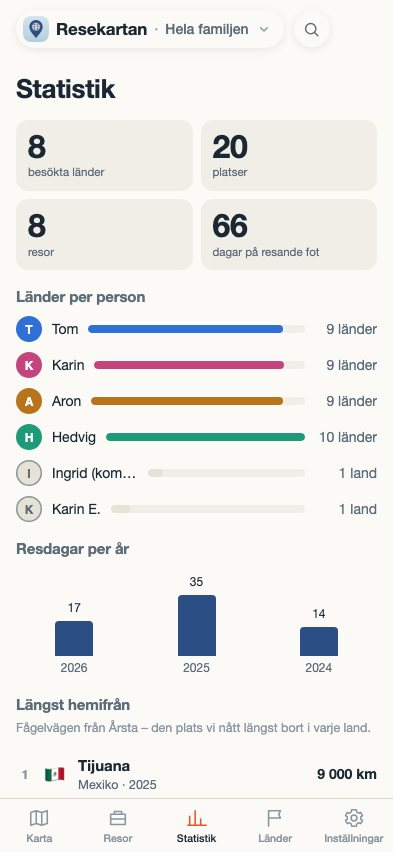
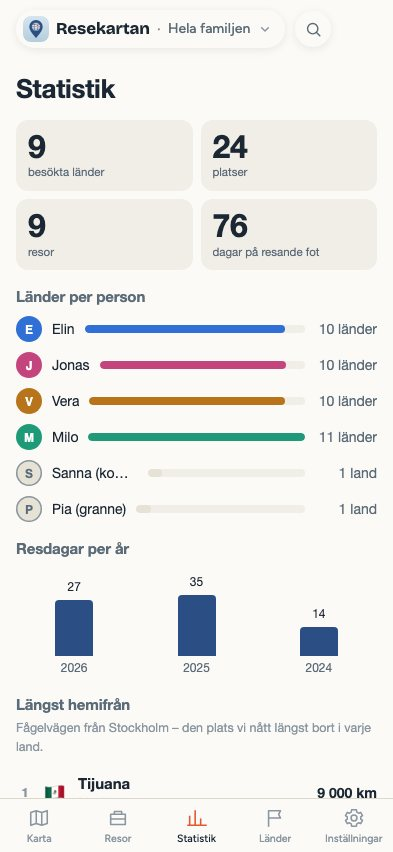
Exempeldatat anonymiserat, och en Lofotenresa till
Sidan /om är publik och repot är publikt, så exempeldatat ska inte bära
familjens namn. Elin, Jonas, Vera och Milo i stället, med distinkta
initialer så avatarbrickorna går att skilja åt, och gästerna omdöpta.
Hemorten är Stockholm i stället för en adress.

Lofoten tillagd så det finns en resa till bland de senaste när bilderna
kommer – Svolvær, Henningsvär, Reine och Å.

Claude-Session: https://claude.ai/code/session_01Wu3cv2xDEr3HrUYMerHgDB

diff --git a/data/seed.js b/data/seed.js
@@ -8,20 +8,20 @@ window.SEED = {
   /* core: true = familjen, förkryssad på varje ny resa.
      Övriga är resesällskap som kryssas i när de var med. */
   people: [
-    { id: 'tom',    name: 'Tom',    core: true },
-    { id: 'karin',  name: 'Karin',  core: true },
-    { id: 'aron',   name: 'Aron',   core: true },
-    { id: 'hedvig', name: 'Hedvig', core: true },
-    { id: 'ingrid',  name: 'Ingrid (kompis)' },
-    { id: 'karine',  name: 'Karin E.' },
-    { id: 'mormor',  name: 'Mormor Ingrid' },
-    { id: 'morfar',  name: 'Morfar Arne' },
-    { id: 'erik',    name: 'Morbror Erik' }
+    { id: 'elin',    name: 'Elin',   core: true },
+    { id: 'jonas',  name: 'Jonas',  core: true },
+    { id: 'vera',   name: 'Vera',   core: true },
+    { id: 'milo', name: 'Milo',   core: true },
+    { id: 'sanna',  name: 'Sanna (kompis)' },
+    { id: 'pia',  name: 'Pia (granne)' },
+    { id: 'mormor',  name: 'Mormor Britt' },
+    { id: 'morfar',  name: 'Morfar Sture' },
+    { id: 'leif',    name: 'Farbror Leif' }
   ],
-  home: { iso: '752', place: { name: 'Årsta', lat: 59.30, lon: 18.05 } },
+  home: { iso: '752', place: { name: 'Stockholm', lat: 59.33, lon: 18.07 } },
   trips: [
     { id: 'it26', title: 'Italien', start: '2026-08-01', end: '2026-08-09',
-      who: ['tom','karin','aron','hedvig'],
+      who: ['elin','jonas','vera','milo'],
       note: 'En vecka med historia, bad och italiensk mat. Två nätter i Rom med Colosseum och Fontana di Trevi, sedan Formia med strandliv och dagstur till Ponza.',
       stops: [{ iso: '380', places: [
         { name: 'Rom', lat: 41.90, lon: 12.50, what: 'Colosseum och Fontana di Trevi' },
@@ -31,13 +31,13 @@ window.SEED = {
         { name: 'Ponza', lat: 40.90, lon: 12.96, what: 'Dagstur med båt' }]}]},
 
     { id: 'hh26', title: 'Hamburg', start: '2026-05-01', end: '2026-05-03',
-      who: ['tom','aron'],
+      who: ['elin','vera'],
       note: 'Pappa-och-son-helg: Miniatur Wunderland, hamnrundtur och Elbphilharmonie.',
       stops: [{ iso: '276', places: [
         { name: 'Hamburg', lat: 53.55, lon: 9.99, what: 'Miniatur Wunderland och hamnrundtur' }]}]},
 
     { id: 'hk25', title: 'Hongkong', start: '2025-10-26', end: '2025-11-03',
-      who: ['tom','karin','aron','hedvig'],
+      who: ['elin','jonas','vera','milo'],
       note: 'Höstlov i Hongkong. Victoria Peak, Star Ferry och dim sum varje dag. En dag med färja till Macau.',
       stops: [
         { iso: '344', places: [
@@ -46,7 +46,7 @@ window.SEED = {
           { name: 'Macau', lat: 22.20, lon: 113.54, what: 'Färja över på dagen, portugisiska gamla stan' }]}]},
 
     { id: 'us25', title: 'Kalifornien', start: '2025-06-12', end: '2025-06-27',
-      who: ['tom','karin','aron','hedvig'],
+      who: ['elin','jonas','vera','milo'],
       note: 'Roadtrip längs kusten: San Francisco, Highway 1, Los Angeles och San Diego. En natt över gränsen i Tijuana.',
       stops: [
         { iso: '840', places: [
@@ -57,13 +57,13 @@ window.SEED = {
           { name: 'Tijuana', lat: 32.51, lon: -117.04, what: 'En natt över gränsen, tacos på gatan' }]}]},
 
     { id: 'lon25', title: 'London', start: '2025-02-14', end: '2025-02-17',
-      who: ['karin','hedvig'],
+      who: ['jonas','milo'],
       note: 'Sportlovshelg med musikal, Harry Potter-studion och Camden.',
       stops: [{ iso: '826', places: [
         { name: 'London', lat: 51.51, lon: -0.13, what: 'Musikal, Harry Potter-studion och Camden' }]}]},
 
     { id: 'es24', title: 'Andalusien', start: '2024-10-12', end: '2024-10-19',
-      who: ['tom','karin','aron','hedvig'],
+      who: ['elin','jonas','vera','milo'],
       note: 'Höstlov i Málaga med dagsturer till Sevilla och Gibraltar – aporna på klippan var höjdpunkten.',
       stops: [
         { iso: '724', places: [
@@ -73,26 +73,35 @@ window.SEED = {
           { name: 'Gibraltar', lat: 36.14, lon: -5.35, what: 'Linbanan upp till aporna på klippan' }]}]},
 
     { id: 'dk24', title: 'Köpenhamn', start: '2024-05-03', end: '2024-05-05',
-      who: ['tom','karin','aron','hedvig'],
+      who: ['elin','jonas','vera','milo'],
       note: 'Tivoli, Nyhavn och cykel längs kanalerna.',
       stops: [{ iso: '208', places: [
         { name: 'Köpenhamn', lat: 55.68, lon: 12.57, what: 'Tivoli, Nyhavn och cykel längs kanalerna' }]}]},
 
     { id: 'ro26', title: 'Rumänien', start: '2026-10-24', end: '2026-10-31',
-      who: ['tom','karin','aron','hedvig'], planned: true,
+      who: ['elin','jonas','vera','milo'], planned: true,
       note: 'Höstlovet 2026. Bukarest och Transsylvanien är påtänkta.',
       stops: [{ iso: '642', places: [
         { name: 'Bukarest', lat: 44.43, lon: 26.10, what: 'Bukarest och Transsylvanien är påtänkta' }]}]},
 
+    { id: 'no26lof', title: 'Lofoten', start: '2026-07-03', end: '2026-07-12',
+      who: ['elin','jonas','vera','milo'],
+      note: 'Midnattssol, branta toppar rakt upp ur havet och rorbuer att bo i. Vi körde hela vägen ut till Å och badade i vatten som var alldeles för kallt.',
+      stops: [{ iso: '578', places: [
+        { name: 'Svolvær', lat: 68.23, lon: 14.57, what: 'Hamnen och Svolværgeita på håll' },
+        { name: 'Henningsvær', lat: 68.15, lon: 14.20, what: 'Fotbollsplanen mellan klipporna' },
+        { name: 'Reine', lat: 67.93, lon: 13.09, what: 'Utsikten från Reinebringen' },
+        { name: 'Å', lat: 67.88, lon: 12.98, what: 'Vägens slut och torrfiskmuseet' }]}]},
+
     /* Resor i Sverige – syns när man trycker på hemlandet */
     { id: 'se26are', title: 'Åre', start: '2026-02-21', end: '2026-02-28',
-      who: ['tom','karin','aron','hedvig'],
-      note: 'Sportlov i fjällen. Hedvig åkte sin första svarta backe och Aron lärde sig snowboard.',
+      who: ['elin','jonas','vera','milo'],
+      note: 'Sportlov i fjällen. Milo åkte sin första svarta backe och Vera lärde sig snowboard.',
       stops: [{ iso: '752', places: [
         { name: 'Åre', lat: 63.40, lon: 13.08, what: 'Skidor hela veckan och första svarta backen' }]}]},
 
     { id: 'se25got', title: 'Gotland', start: '2025-07-05', end: '2025-07-14',
-      who: ['tom','karin','aron','hedvig'],
+      who: ['elin','jonas','vera','milo'],
       note: 'Sommarvecka på Gotland med stugan utanför Visby, raukar på Fårö och bad varje dag.',
       stops: [{ iso: '752', places: [
         { name: 'Visby', lat: 57.64, lon: 18.30, what: 'Ringmuren och medeltidsveckan' },
@@ -100,20 +109,20 @@ window.SEED = {
         { name: 'Ljugarn', lat: 57.32, lon: 18.71, what: 'Stranden och glasspaus' }]}]},
 
     { id: 'se25gbg', title: 'Göteborg', start: '2025-04-11', end: '2025-04-13',
-      who: ['tom','hedvig'],
-      note: 'Helg med Liseberg och Universeum medan Karin och Aron var på hockeycup.',
+      who: ['elin','milo'],
+      note: 'Helg med Liseberg och Universeum medan Jonas och Vera var på hockeycup.',
       stops: [{ iso: '752', places: [
         { name: 'Göteborg', lat: 57.71, lon: 11.97, what: 'Liseberg och Universeum' }]}]},
 
     { id: 'fi25', title: 'Finland', start: '2025-08-01', end: '2025-08-05',
-      who: ['hedvig','ingrid','karine'],
-      note: 'Hedvig åkte med kompisen Ingrid och hennes mamma till Helsingfors. Färja över, Linnanmäki och simhall.',
+      who: ['milo','sanna','pia'],
+      note: 'Milo åkte med kompisen Sanna och hennes mamma till Helsingfors. Färja över, Linnanmäki och simhall.',
       stops: [{ iso: '246', places: [
         { name: 'Helsingfors', lat: 60.17, lon: 24.94, what: 'Linnanmäki och Sveaborg' }]}]},
 
     { id: 'se24kol', title: 'Kolmården', start: '2024-08-09', end: '2024-08-11',
       note: 'Djurparkshelg med camping. Mormor och morfar följde med. Delfinshowen och Wildfire var höjdpunkterna.',
-      who: ['tom','karin','aron','hedvig','mormor','morfar'],
+      who: ['elin','jonas','vera','milo','mormor','morfar'],
       stops: [{ iso: '752', places: [
         { name: 'Kolmården', lat: 58.66, lon: 16.39, what: 'Djurparken, delfinshowen och Wildfire' }]}]}
   ]
